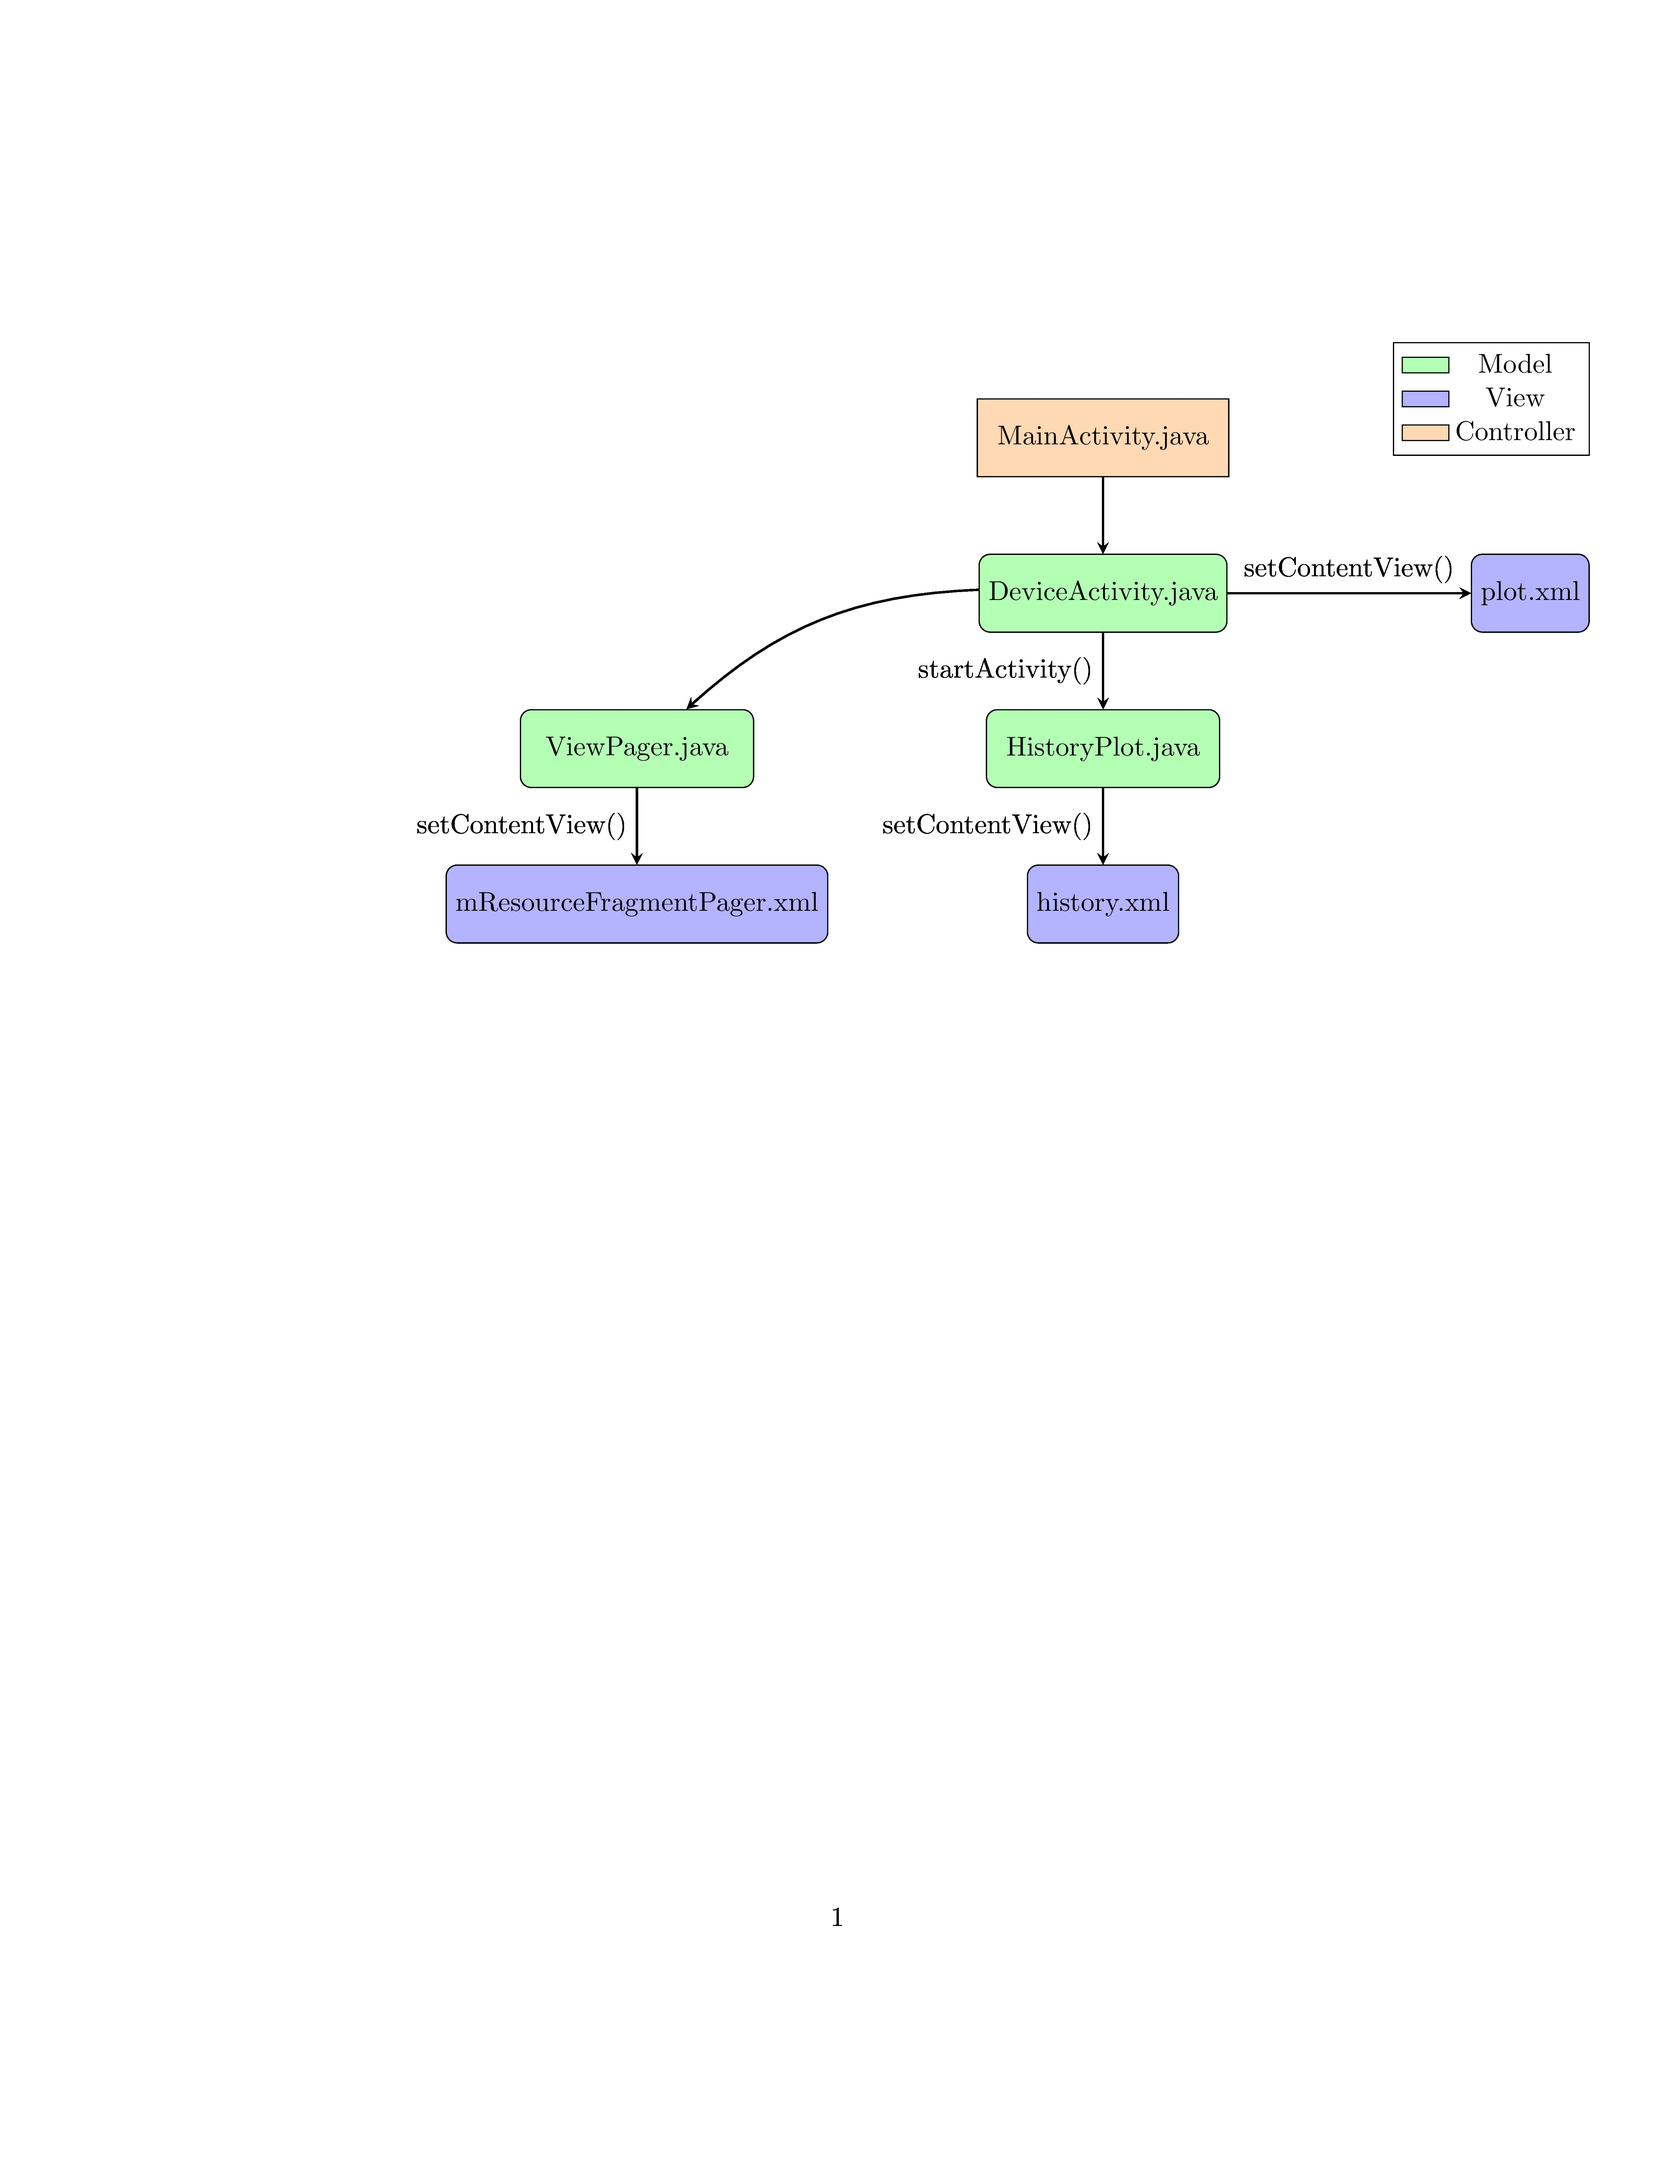
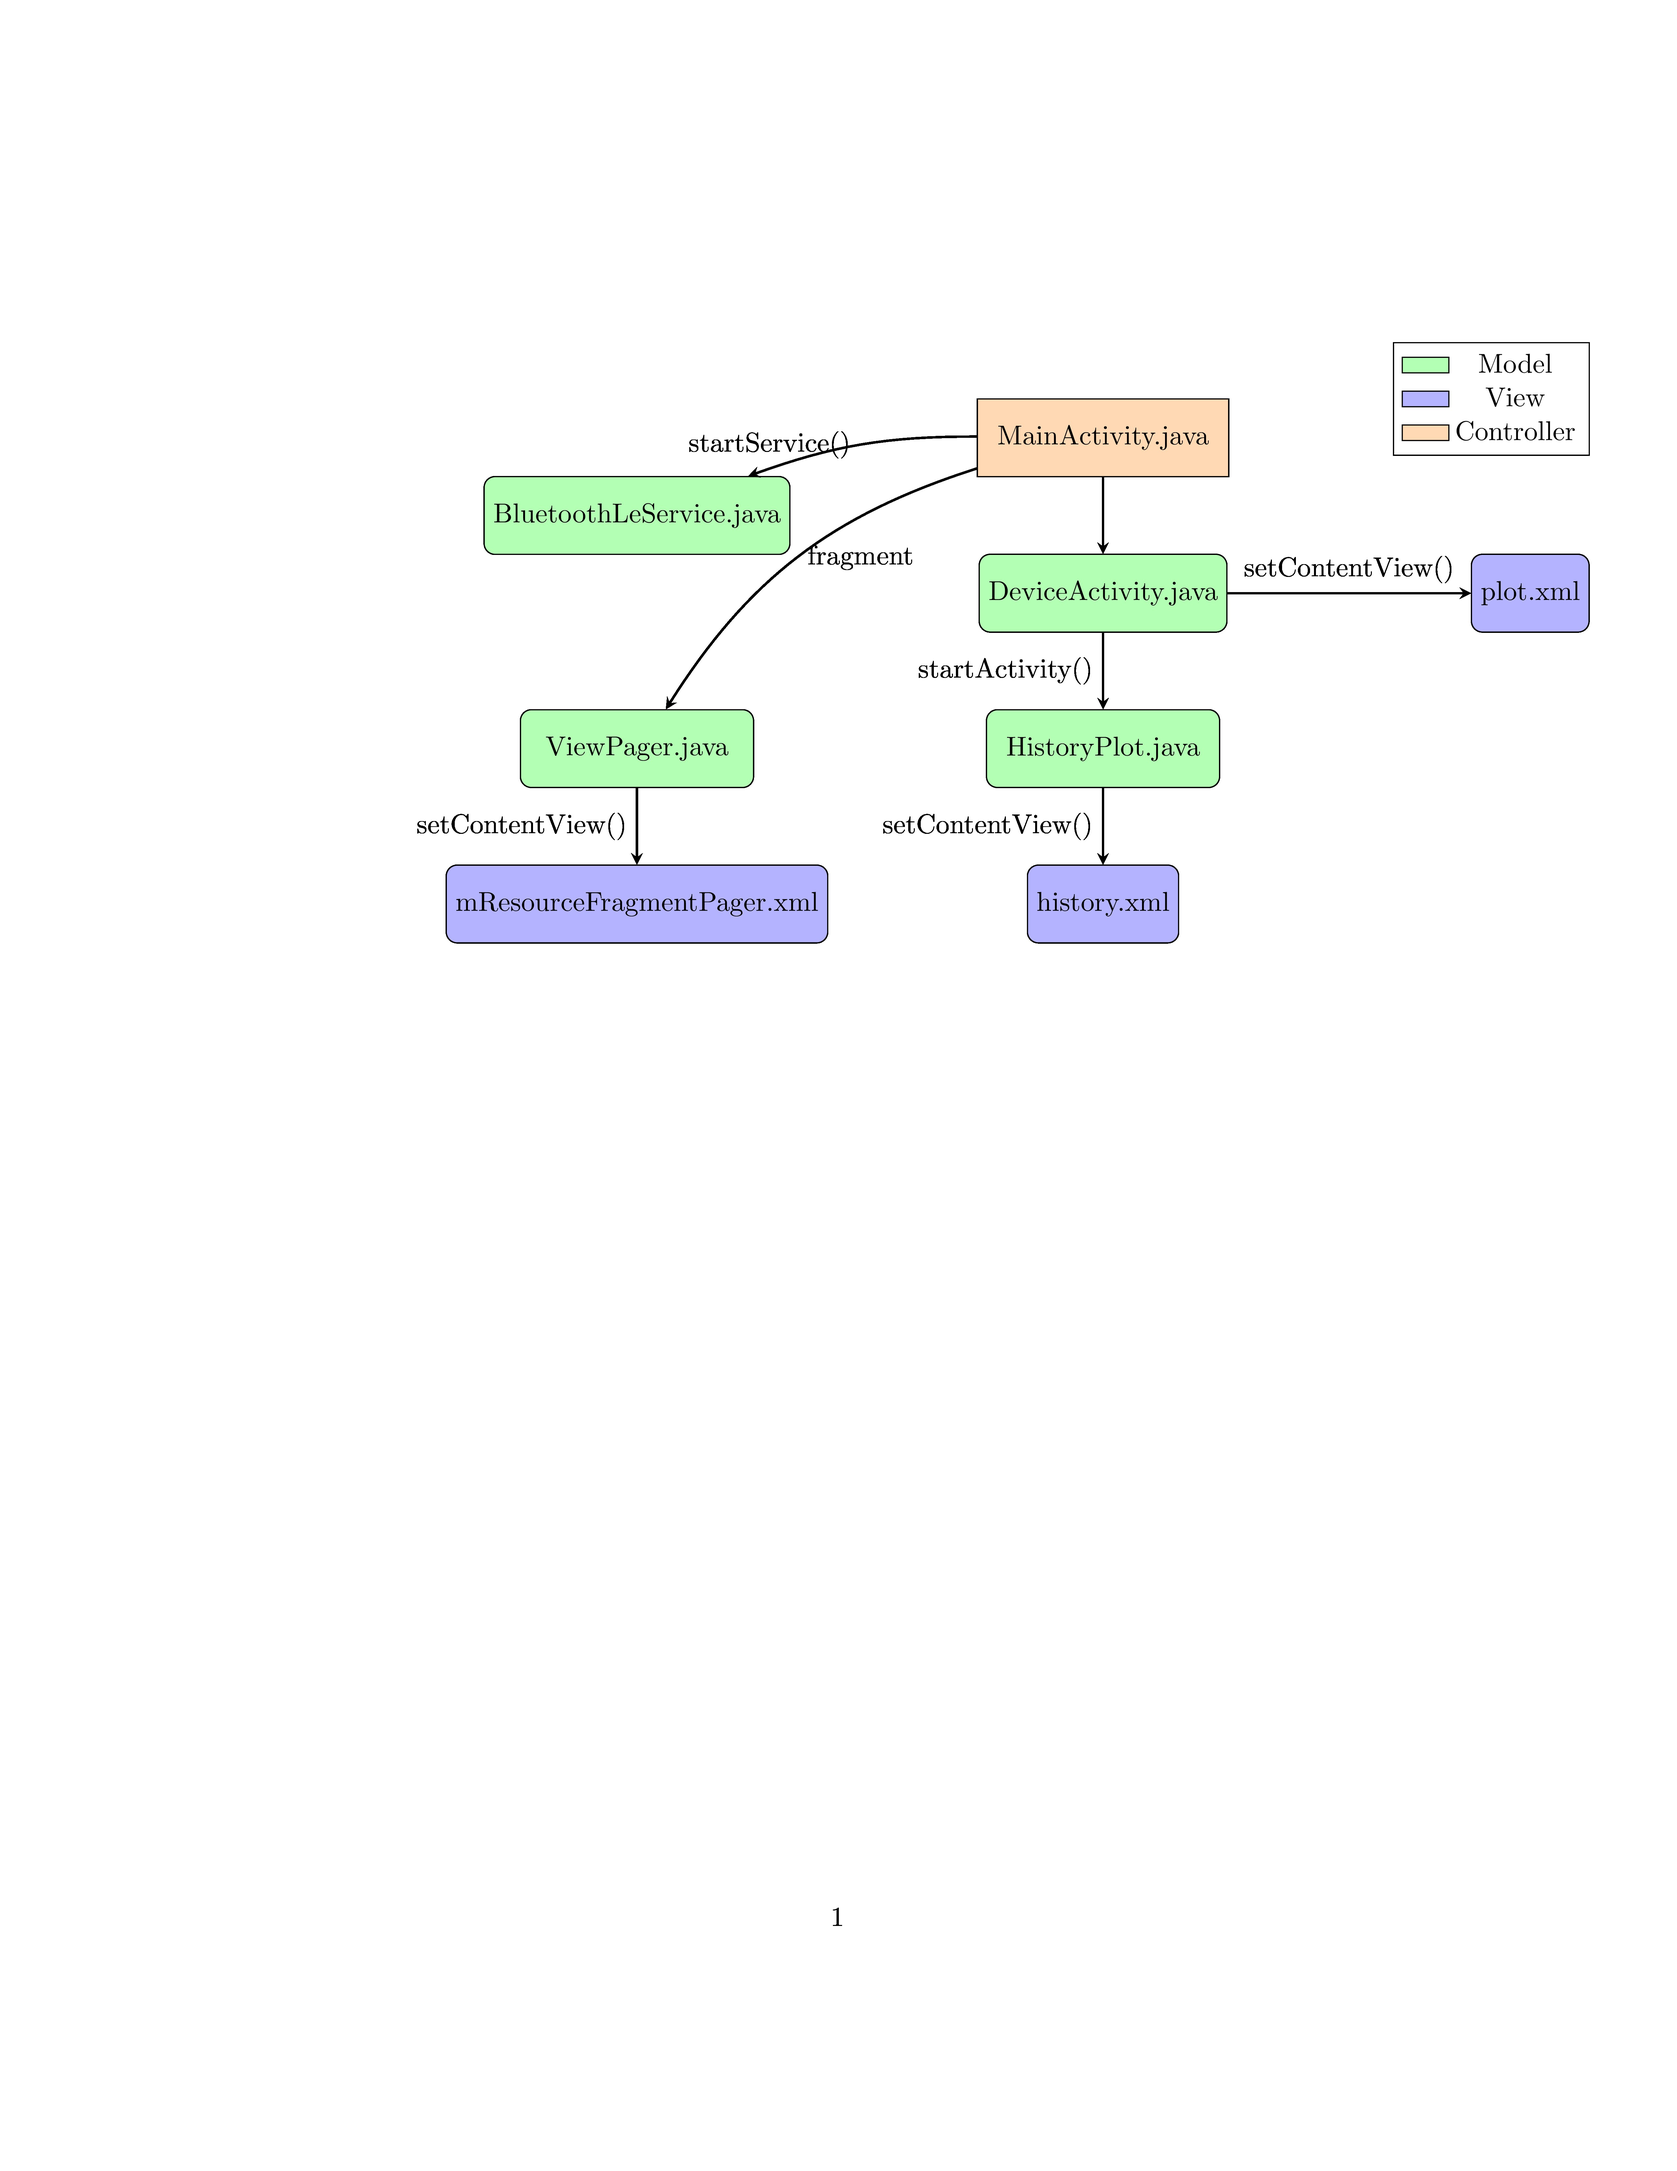
updated flow chart

Changed region(s): [[0.2806, 0.1873, 0.4988, 0.2809], [0.4988, 0.2497, 0.53, 0.2809]]

diff --git a/pics/flow/old/Latex/flow_chart.tex b/pics/flow/old/Latex/flow_chart.tex
@@ -41,6 +41,7 @@
 
 
 \node (main) [process] {MainActivity.java};
+\node (BLE) [model, left of=main, xshift=-4cm, yshift=-1cm] {BluetoothLeService.java};
 
 \node (DA) [model, below of=main] {DeviceActivity.java};
 \node (plot) [view, right of=DA, xshift=3.5cm] {plot.xml};
@@ -49,15 +50,16 @@
 \node (history) [view, below of=HP] {history.xml};
 
 \node (VPA) [model, left of=HP, xshift=-4cm] {ViewPager.java};
-\draw [arrow] (DA) to [bend right=20] (VPA);
-
 \node (fragpage) [view, below of=VPA] {mResourceFragmentPager.xml}; 
 
-
+\draw [arrow] (main) to [bend right=20] node[anchor=west] {fragment} (VPA);
 \draw [arrow] (VPA) -- node[anchor=east] {setContentView()} (fragpage);
 \draw [arrow] (main) -- (DA);
+\draw [arrow] (main) to [bend right=10] node[anchor=east] {startService()} (BLE);
+
 \draw [arrow] (DA) -- node[anchor=east] {startActivity()} (HP);
 \draw [arrow] (DA) -- node[anchor=south] {setContentView()} (plot);
+
 \draw [arrow] (HP) -- node[anchor=east] {setContentView()} (history);
 
 %%\path[every node/.style={font=\sffamily\small}]
